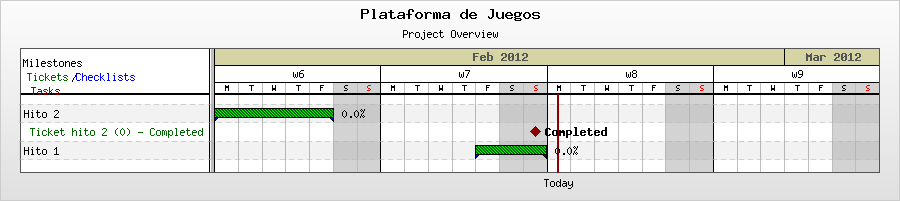
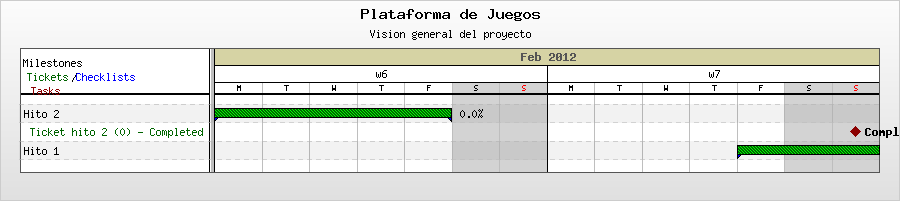
gantt

diff --git a/activecollab/application/modules/charts/models/ChartsJpGraphGantt.class.php b/activecollab/application/modules/charts/models/ChartsJpGraphGantt.class.php
@@ -1,94 +1,91 @@
 <?php
 
-  class ChartsJpGraphGantt {
-  
-    private $use_ttf_fonts = false;
-  
-    /**
-     * Constructor
-     *
-     * @param Request $request
-     * @return FilesController
-     */
-    function __construct($request) {
-      #parent::__construct($request);
-
-      // Find out if we should use the fonts
-      if (file_exists(CHARTS_TTF_DIR))  $this->use_ttf_fonts = true;
-
-    } // __construct
-    
-    /**
-     * Show index page
-     *
-     * @param void
-     * @return null
-     */
-    function make_gantt(&$charts_data,$project,$set_date_extents) {
-
-	// Limit string length on bar title
-	$lengthlimit = 45;
-	$graphwidth = 900;
-
-	// Create a default chart
-	include_once(CHARTS_MODULE_PATH . "/helpers/jpgraph/jpgraph.php");
-	include_once(CHARTS_MODULE_PATH . "/helpers/jpgraph/jpgraph_gantt.php");
-
-	// New auto-height Gantt, to fit within aC
-	$graph = new GanttGraph($graphwidth);
-
-	// Get the date range from user input
-	$graph->SetDateRange($charts_data['start_on'],$charts_data['end_on']);
-        $graph->SetFrame(true,'#cccccc',1); 
-
-	// Scale months and years
-	$graph->scale->month->SetStyle(MONTHSTYLE_SHORTNAMEYEAR4);
-	$graph->scale->month->SetFontColor("#555555");
-	$graph->scale->month->SetBackgroundColor("#d6d3a4");
-	// Setup a horizontal grid
-
-	if ($charts_data['showhgrid']) {
-	  $graph->hgrid->Show();
-	  $graph->hgrid->SetRowFillColor('#000000@0.95');
+class ChartsJpGraphGantt {
+	private $use_ttf_fonts = false;
+	
+	/**
+   * Constructor
+   *
+   * @param Request $request
+   * @return FilesController
+   */
+  function __construct($request) {
+  	#parent::__construct($request);
+  	
+  	// Find out if we should use the fonts
+  	if (file_exists(CHARTS_TTF_DIR))  $this->use_ttf_fonts = true;
 	}
-
-	// Some styling
-	// $graph->SetShadow();
-	$graph->SetMarginColor('#fbfbfb');
-	$graph->SetBox(true, "#555555",1);
-	$graph->SetBackgroundGradient('#fcfcfc','#e0e0e0',GRAD_HOR,BGRAD_MARGIN); 
-	$graph->SetMargin(20,20,20,27);
-
-	// Set titles and some fonts to make it prettier
-	$graph->title->Set($project->active_project->getName());
-	if ($this->use_ttf_fonts) $graph->title->SetFont(FF_VERDANA,FS_BOLD,12);
-	$graph->subtitle->Set("Project Overview");
-	if ($this->use_ttf_fonts) $graph->subtitle->SetFont(FF_VERDANA,FS_NORMAL,10);
-
-	$graph->ShowHeaders(GANTT_HDAY | GANTT_HWEEK | GANTT_HMONTH);
-	//$graph->scale->week->SetStyle(WEEKSTYLE_FIRSTDAY);
-
-	// Add line for today
-	// Setup a vertical marker line
-	if ($charts_data['showtoday']) {
-	$vline = new GanttVLine(strftime('%Y-%m-%d', time()));
-	$vline->SetDayOffset(0.5);
-	$vline->title->Set("Today");
-	if ($this->use_ttf_fonts)  $vline->title->SetFont(FF_FONT1,FS_BOLD,10);
-	$graph->Add($vline);
-	}
-
-	// Get Milestones from project, if enabled!
-	$milestones = Milestones::findByProject($project->active_project, $project->logged_user);
-	if (count($milestones) > 0) {
-
-	  // JpGraph is ready, now lets cycle through milestones, finding tasks
-          $date_lo=99999999;
-          $date_hi=00000000;
-	  $bar = -1;
-	  foreach ($milestones as $milestone) {
-        	$ms_task_count=0;
-        	$ms_complete_task_count=0;
+	
+	/**
+   * Show index page
+   *
+   * @param void
+   * @return null
+   */
+  function make_gantt(&$charts_data,$project,$set_date_extents) {
+  	// Limit string length on bar title
+  	$lengthlimit = 45;
+		$graphwidth = 900;
+		
+		// Create a default chart
+		require_once(CHARTS_MODULE_PATH . "/helpers/jpgraph/jpgraph.php");
+		require_once(CHARTS_MODULE_PATH . "/helpers/jpgraph/jpgraph_gantt.php");
+		
+		// New auto-height Gantt, to fit within aC
+		$graph = new GanttGraph($graphwidth);
+		
+		// Get the date range from user input
+		$graph->SetDateRange($charts_data['start_on'],$charts_data['end_on']);
+		$graph->SetFrame(true,'#cccccc',1);
+		
+		// Scale months and years
+		$graph->scale->month->SetStyle(MONTHSTYLE_SHORTNAMEYEAR4);
+		$graph->scale->month->SetFontColor("#555555");
+		$graph->scale->month->SetBackgroundColor("#d6d3a4");
+		// Setup a horizontal grid
+		
+		if ($charts_data['showhgrid']) {
+			$graph->hgrid->Show();
+			$graph->hgrid->SetRowFillColor('#000000@0.95');
+		}
+		
+		// Some styling
+		// $graph->SetShadow();
+		$graph->SetMarginColor('#fbfbfb');
+		$graph->SetBox(true, "#555555",1);
+		$graph->SetBackgroundGradient('#fcfcfc','#e0e0e0',GRAD_HOR,BGRAD_MARGIN);
+		$graph->SetMargin(20,20,20,27);
+		
+		// Set titles and some fonts to make it prettier
+		$graph->title->Set($project->active_project->getName());
+		if ($this->use_ttf_fonts) $graph->title->SetFont(FF_VERDANA,FS_BOLD,12);
+		$graph->subtitle->Set("Vision general del proyecto");
+		if ($this->use_ttf_fonts) $graph->subtitle->SetFont(FF_VERDANA,FS_NORMAL,10);
+		
+		$graph->ShowHeaders(GANTT_HDAY | GANTT_HWEEK | GANTT_HMONTH);
+		//$graph->scale->week->SetStyle(WEEKSTYLE_FIRSTDAY);
+		
+		// Add line for today
+		// Setup a vertical marker line
+		if ($charts_data['showtoday']) {
+			$vline = new GanttVLine(strftime('%Y-%m-%d', time()));
+			$vline->SetDayOffset(0.5);
+			$vline->title->Set("Today");
+			if ($this->use_ttf_fonts)  $vline->title->SetFont(FF_FONT1,FS_BOLD,10);
+			$graph->Add($vline);
+		}
+		
+		// Get Milestones from project, if enabled!
+		$milestones = Milestones::findByProject($project->active_project, $project->logged_user);
+		if (count($milestones) > 0) {
+			// JpGraph is ready, now lets cycle through milestones, finding tasks
+			$date_lo = 99999999;
+			$date_hi = 00000000;
+			$bar = -1;
+			
+			foreach ($milestones as $milestone) {
+				$ms_task_count = 0;
+				$ms_complete_task_count = 0;
 
 		// Add milestone to activities
 		$name = $milestone->getName();
@@ -120,32 +117,33 @@
 
 		// Cycle through tickets
 		$tickets = $objects['Tickets'];
+		
 		foreach ($tickets as $ticket) {
-
-                    $ms_task_count+=$ticket->countTasks();
-                    $ms_complete_task_count+=$ticket->countCompletedTasks();
-
-		    $name = $ticket->getName();
-		    $count = $ticket->countTasks();
-		    $start = '';
-		    # $ticket->getStartOn() is *not* a standard feature of
-		    # ActiveCollab, but it does get added by the Planning
-		    # module, and we support it if it exits.
-		    # http://appsmagnet.com/activecollab-main/planning-module/
-		    if (method_exists($ticket,'getStartOn')) {
-		      $start = substr($ticket->getStartOn(),0,10);
-		    }
-		    $due = substr($ticket->getDueOn(),0,10);
-
-		    $status = "Due $due";
-    		    if ($ticket->isLate())  $status = 'Late';
-		    if ($ticket->isCompleted())  $status = 'Completed';
-		    if ($ticket->isToday()) $status = 'Due today';	
-
-		    # If the ticket has a StartOn and DueOn then plot it
-		    # with a GanttBar, else use a JpMileStone.
-		  if ($charts_data['showtickets']) {
-		    if ($start != '' && $due != '') {
+			$ms_task_count +=$ ticket->countTasks();
+			$ms_complete_task_count += $ticket->countCompletedTasks();
+			
+			$name = $ticket->getName();
+			$count = $ticket->countTasks();
+			$start = '';
+			
+			# $ticket->getStartOn() is *not* a standard feature of
+			# ActiveCollab, but it does get added by the Planning
+			# module, and we support it if it exits.
+			# http://appsmagnet.com/activecollab-main/planning-module/
+			if (method_exists($ticket,'getStartOn')) {
+				$start = substr($ticket->getStartOn(),0,10);
+			}
+			$due = substr($ticket->getDueOn(),0,10);
+			
+			$status = "Due $due";
+			if ($ticket->isLate())  $status = 'Late';
+			if ($ticket->isCompleted())  $status = 'Completed';
+			if ($ticket->isToday()) $status = 'Due today';
+			
+			# If the ticket has a StartOn and DueOn then plot it
+			# with a GanttBar, else use a JpMileStone.
+			if ($charts_data['showtickets']) {
+				if ($start != '' && $due != '') {
 		      $ms = new GanttBar(++$bar,$this->short_name(" $name ($count) - $status", $lengthlimit),$start,$due,'',0.35);
 		      $ms->SetFillColor('green');
 		      $ms->SetPattern(BAND_RDIAG,'darkgreen');
@@ -211,11 +209,12 @@
 		} // foreach
 
 		# Calculate the % complete and add that to the $activity
-		$ms_progress = $ms_complete_task_count / $ms_task_count;
+		$ms_progress = ($ms_task_count) ? $ms_complete_task_count / $ms_task_count : 0;
 		$activity->progress->Set( $ms_progress );
 		$activity->progress->SetFillColor('green');
 		$activity->progress->SetPattern( BAND_SOLID , "black" );
 		$activity->caption->Set(sprintf("%0.1f%%",$ms_progress * 100));
+		
 		#$activity->caption->SetBox('yellow');
 		if ($this->use_ttf_fonts) $activity->caption->SetFont(FF_ARIAL,FS_BOLD,9);
 
